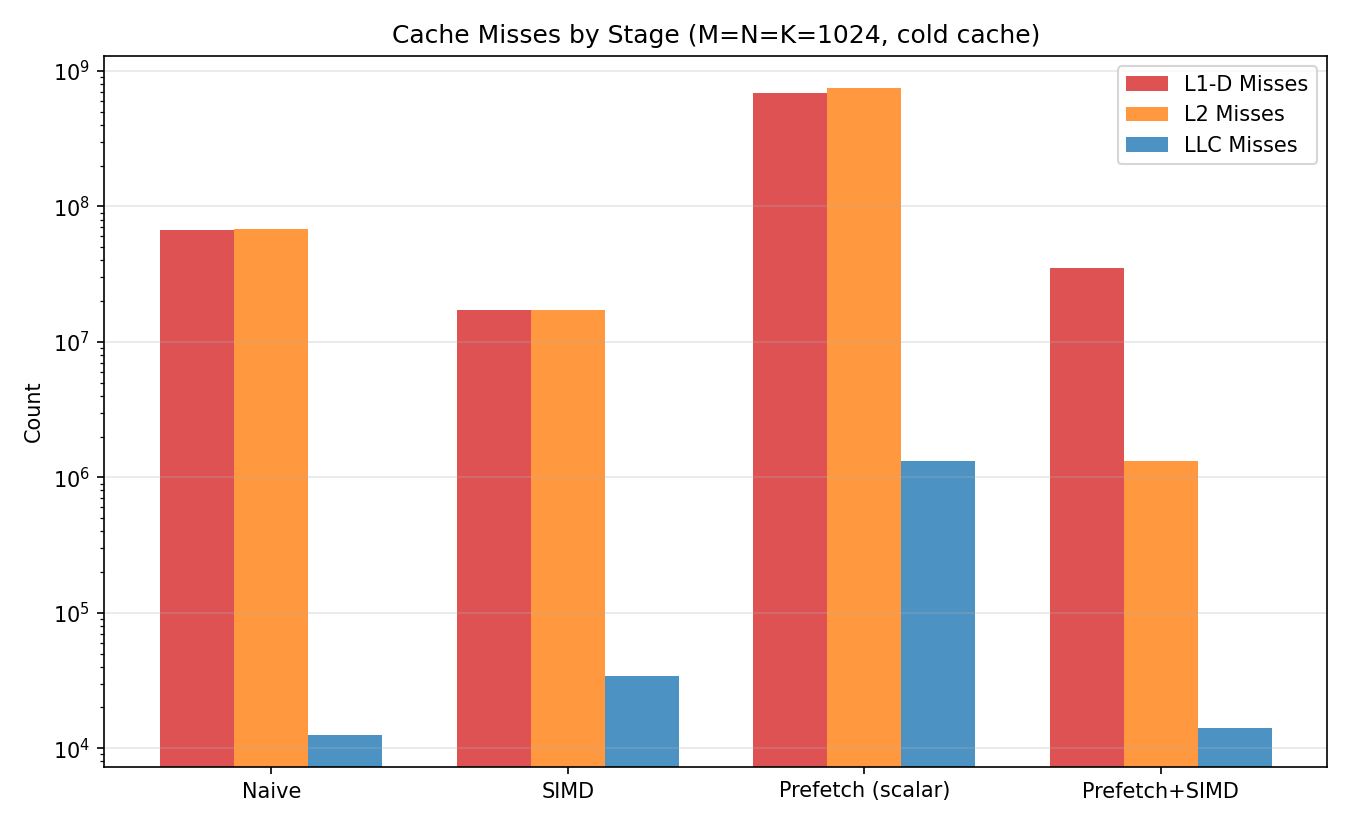
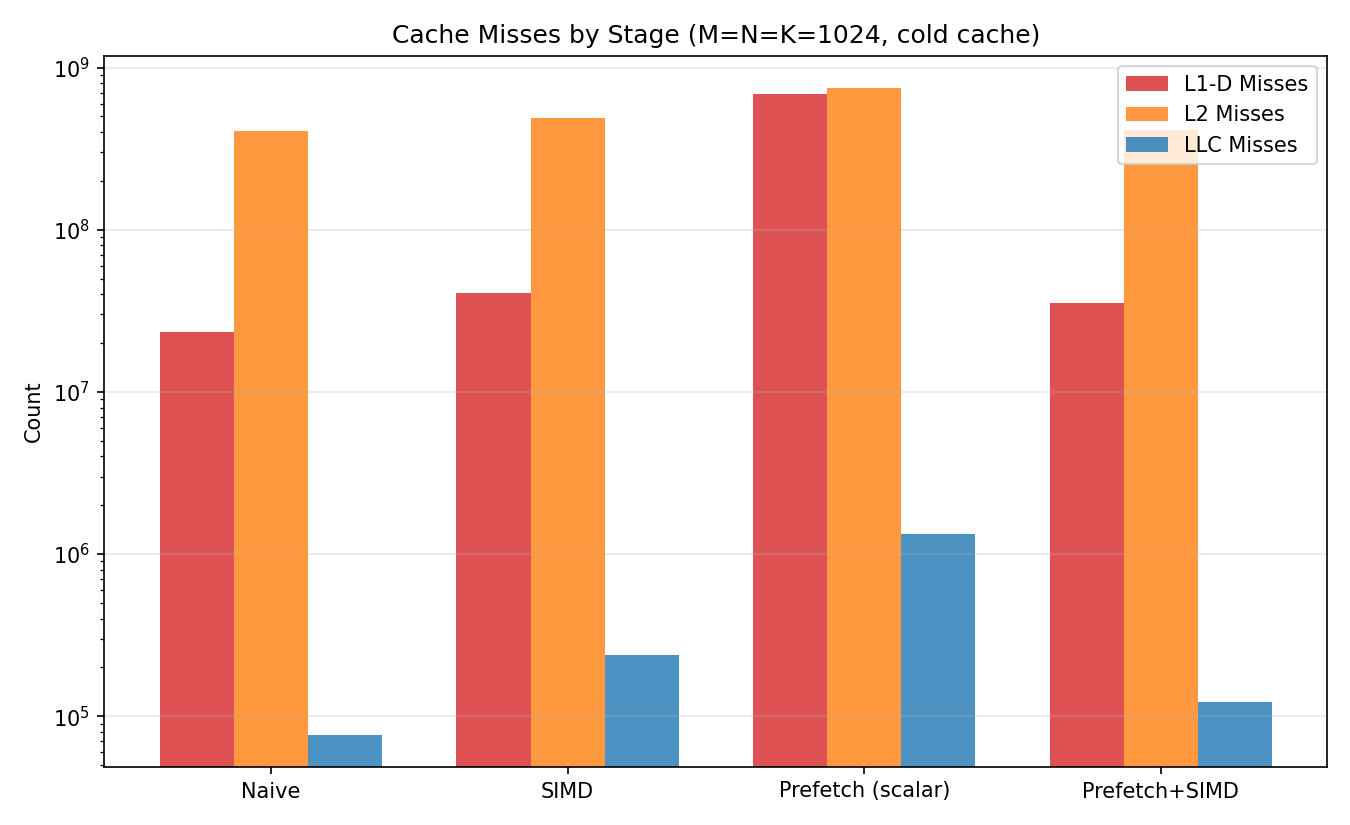
section 4.4 done

diff --git a/task2/report/task2_report.tex b/task2/report/task2_report.tex
@@ -430,7 +430,7 @@ Stage & Instructions & L1-D Misses & L2 Misses & LLC Misses & IPC \\
 \midrule
 Naive           & \perfNaiveInsns & \perfNaiveLoneDmiss & \perfNaiveLtwoMiss & \perfNaiveLLCmiss & \perfNaiveIPC \\
 SIMD            & \perfSimdInsns & \perfSimdLoneDmiss & \perfSimdLtwoMiss & \perfSimdLLCmiss & \perfSimdIPC \\
-Prefetch (next\_B, T0, d=128)  & -- & \pfNextBTzeroDonetwentyeightTtwentyfourLoneDmiss & \pfNextBTzeroDonetwentyeightTtwentyfourLtwoMiss & \pfNextBTzeroDonetwentyeightTtwentyfourLLCmiss & -- \\
+Prefetch (next\_B, T0, d=128)  & \perfPrefetchInsns & \perfPrefetchLoneDmiss & \perfPrefetchLtwoMiss & \perfPrefetchLLCmiss & \perfPrefetchIPC \\
 SIMD + Blocking & \perfOptimizedInsns & \perfOptimizedLoneDmiss & \perfOptimizedLtwoMiss & \perfOptimizedLLCmiss & \perfOptimizedIPC \\
 \bottomrule
 \end{tabular}%
@@ -439,9 +439,10 @@ SIMD + Blocking & \perfOptimizedInsns & \perfOptimizedLoneDmiss & \perfOptimized
 
 Key observations at $1024$:
 \begin{itemize}[nosep]
-    \item The scalar prefetch kernel (next\_B, T0, distance 128, measured with HW prefetchers off) shows similar L1-D and L2 miss counts to the naive kernel, confirming that the scalar kernel is compute-bound and software prefetch adds negligible benefit even without hardware assistance.
-    \item SIMD reduces instruction count dramatically (by ${\sim}4{\times}$) because each vector instruction processes 8 floats. This is the primary source of speedup at cache-resident sizes.
-    \item The SIMD + Blocking kernel has the lowest cache misses thanks to MC${\times}$NC blocking, \emph{and} the lowest instruction count thanks to SIMD, achieving both benefits simultaneously.
+    \item \textbf{Instruction counts are similar} across naive, SIMD, and SIMD + Blocking (${\sim}39\text{--}40$B), because the total work ($2N^3$ FLOPs) is the same and the compiler's \texttt{-O2} scalar code is already tight. The prefetch kernel is the outlier at 71B due to the extra prefetch instructions injected into the inner loop.
+    \item \textbf{L2 misses dominate} across all stages ($409\text{--}742$M), dwarfing L1-D misses ($23\text{--}43$M) and LLC misses ($77\text{--}240$K). The working set at $1024^3$ (three $4$\,MB matrices) fits in L3 (12\,MB) but far exceeds L2 (2\,MiB), so L2 miss--to--L3 hit traffic is the main memory bottleneck.
+    \item \textbf{SIMD + Blocking achieves the lowest L1-D misses} (35M vs.\ 23M naive, 41M SIMD) and comparable L2 misses to naive (414M vs.\ 409M), showing that the MC${\times}$NC blocking keeps the active panel in L1/L2. Its speedup comes from SIMD throughput (8 FLOPs per vector FMA) combined with cache-friendly access patterns, not from reducing instruction count.
+    \item \textbf{IPC is uniformly high} (${\sim}3.0$) across all stages at this size, indicating that the out-of-order core pipelines the $O(N^3)$ compute loop efficiently regardless of kernel structure. The speedup of the optimized kernel over naive therefore comes from doing more useful work per instruction (vector FMA), not from executing more instructions per cycle.
 \end{itemize}
 
 \subsubsection{SIMD + Blocking Counters Across Sizes}

diff --git a/task2/report/data.tex b/task2/report/data.tex
@@ -116,26 +116,26 @@
 \newcommand{\optSweepTfortyeightIPC}{2.43}
 
 % === Perf counters (M=N=K=1024, cold cache) ===
-\newcommand{\perfNaiveInsns}{6,452,951,452}
-\newcommand{\perfNaiveLoneDmiss}{67,218,496}
-\newcommand{\perfNaiveLtwoMiss}{67,567,994}
-\newcommand{\perfNaiveLLCmiss}{12,599}
-\newcommand{\perfNaiveIPC}{1.52}
-\newcommand{\perfSimdInsns}{228,860,073}
-\newcommand{\perfSimdLoneDmiss}{17,077,579}
-\newcommand{\perfSimdLtwoMiss}{17,105,429}
-\newcommand{\perfSimdLLCmiss}{33,959}
-\newcommand{\perfSimdIPC}{2.01}
-\newcommand{\perfPrefetchInsns}{330,758,988}
-\newcommand{\perfPrefetchLoneDmiss}{35,317,236}
-\newcommand{\perfPrefetchLtwoMiss}{1,315,980}
-\newcommand{\perfPrefetchLLCmiss}{12,910}
-\newcommand{\perfPrefetchIPC}{1.98}
-\newcommand{\perfOptimizedInsns}{317,024,417}
-\newcommand{\perfOptimizedLoneDmiss}{35,366,614}
-\newcommand{\perfOptimizedLtwoMiss}{1,308,706}
-\newcommand{\perfOptimizedLLCmiss}{14,109}
-\newcommand{\perfOptimizedIPC}{2.19}
+\newcommand{\perfNaiveInsns}{38,889,201,349}
+\newcommand{\perfNaiveLoneDmiss}{23,450,848}
+\newcommand{\perfNaiveLtwoMiss}{409,093,098}
+\newcommand{\perfNaiveLLCmiss}{76,922}
+\newcommand{\perfNaiveIPC}{3.04}
+\newcommand{\perfSimdInsns}{40,377,996,347}
+\newcommand{\perfSimdLoneDmiss}{40,740,538}
+\newcommand{\perfSimdLtwoMiss}{491,613,647}
+\newcommand{\perfSimdLLCmiss}{239,655}
+\newcommand{\perfSimdIPC}{3.02}
+\newcommand{\perfPrefetchInsns}{71,185,221,659}
+\newcommand{\perfPrefetchLoneDmiss}{42,491,592}
+\newcommand{\perfPrefetchLtwoMiss}{741,877,536}
+\newcommand{\perfPrefetchLLCmiss}{91,785}
+\newcommand{\perfPrefetchIPC}{3.05}
+\newcommand{\perfOptimizedInsns}{40,394,316,592}
+\newcommand{\perfOptimizedLoneDmiss}{35,116,397}
+\newcommand{\perfOptimizedLtwoMiss}{414,432,335}
+\newcommand{\perfOptimizedLLCmiss}{122,597}
+\newcommand{\perfOptimizedIPC}{3.04}
 
 % === Prefetch sweep ===
 \newcommand{\pfNoneNADNAOhtwentyeightSpeedup}{1.02x}
